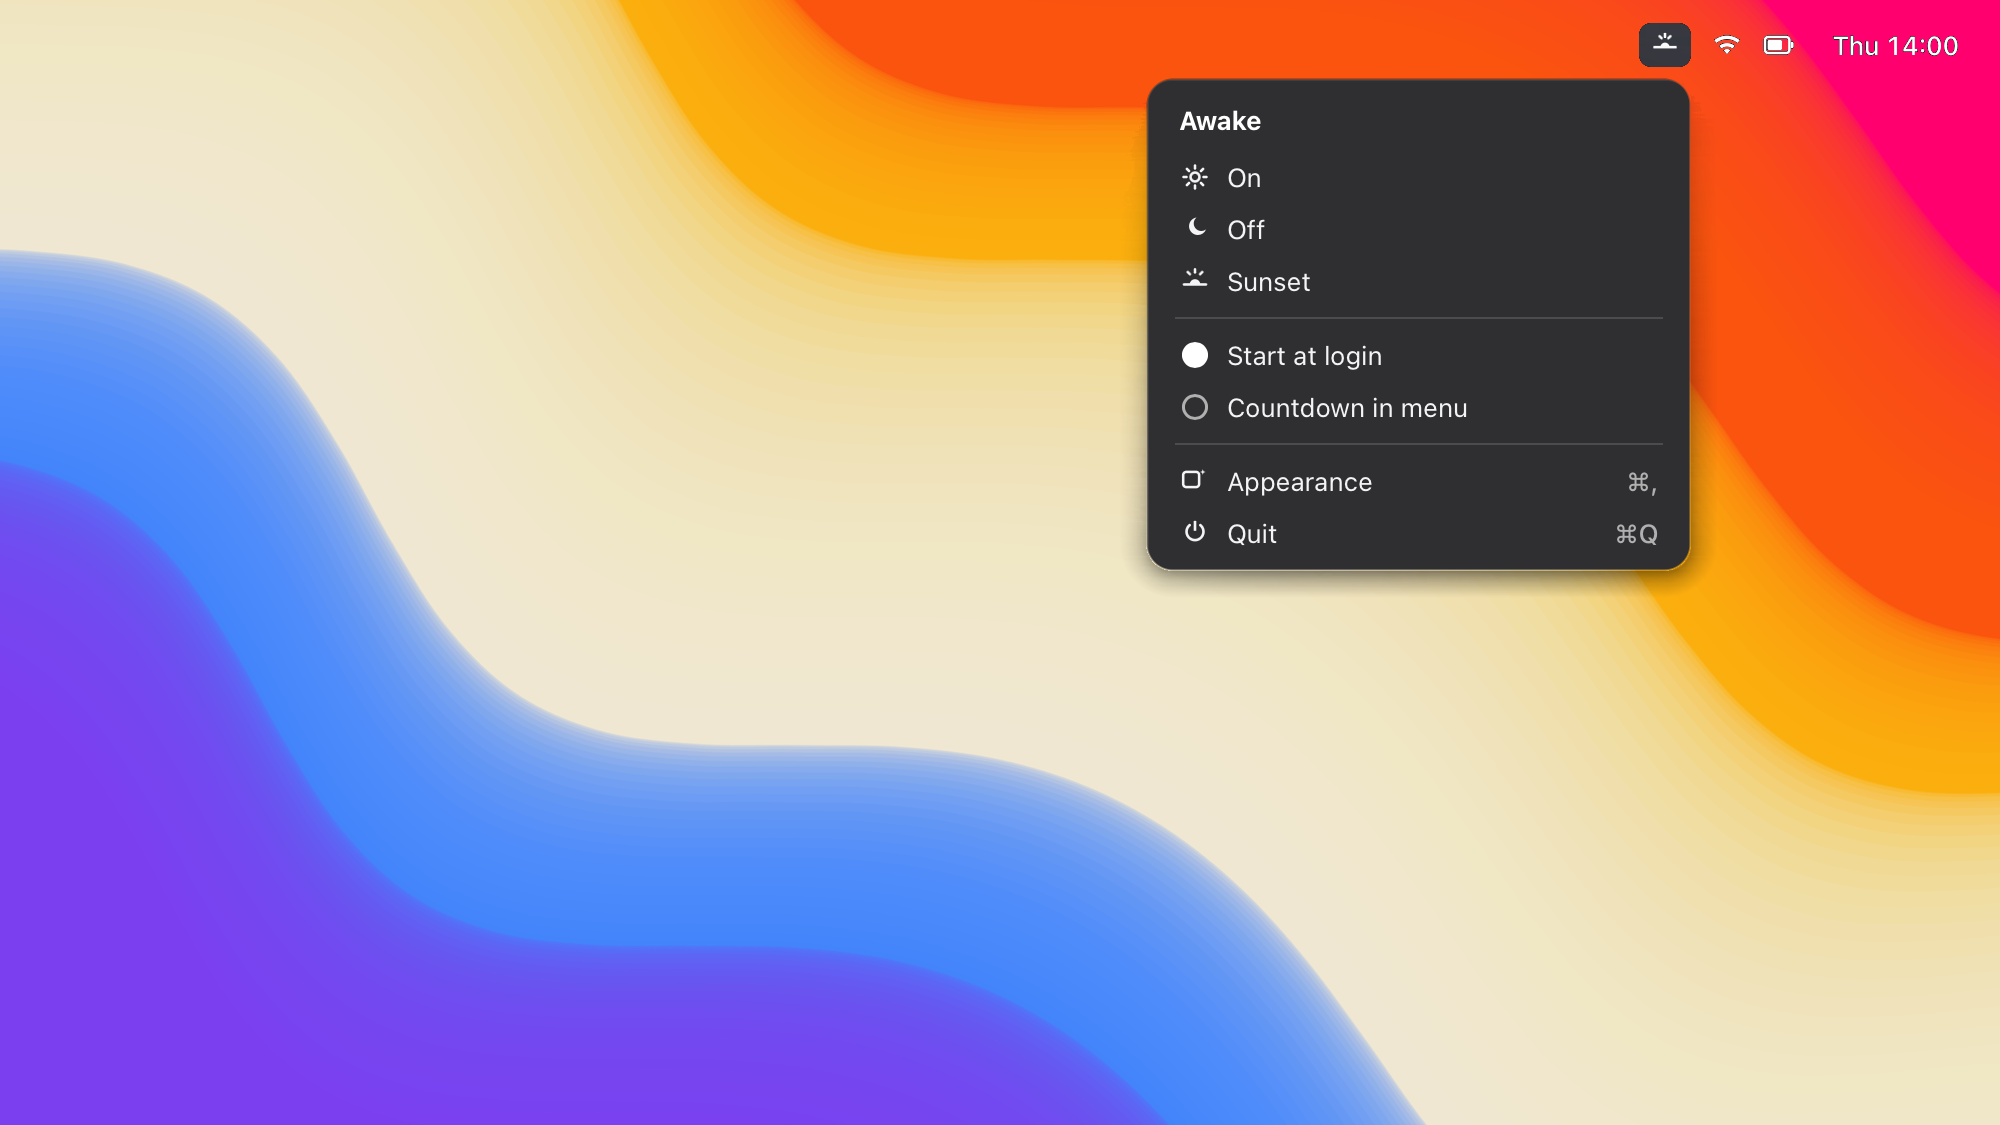
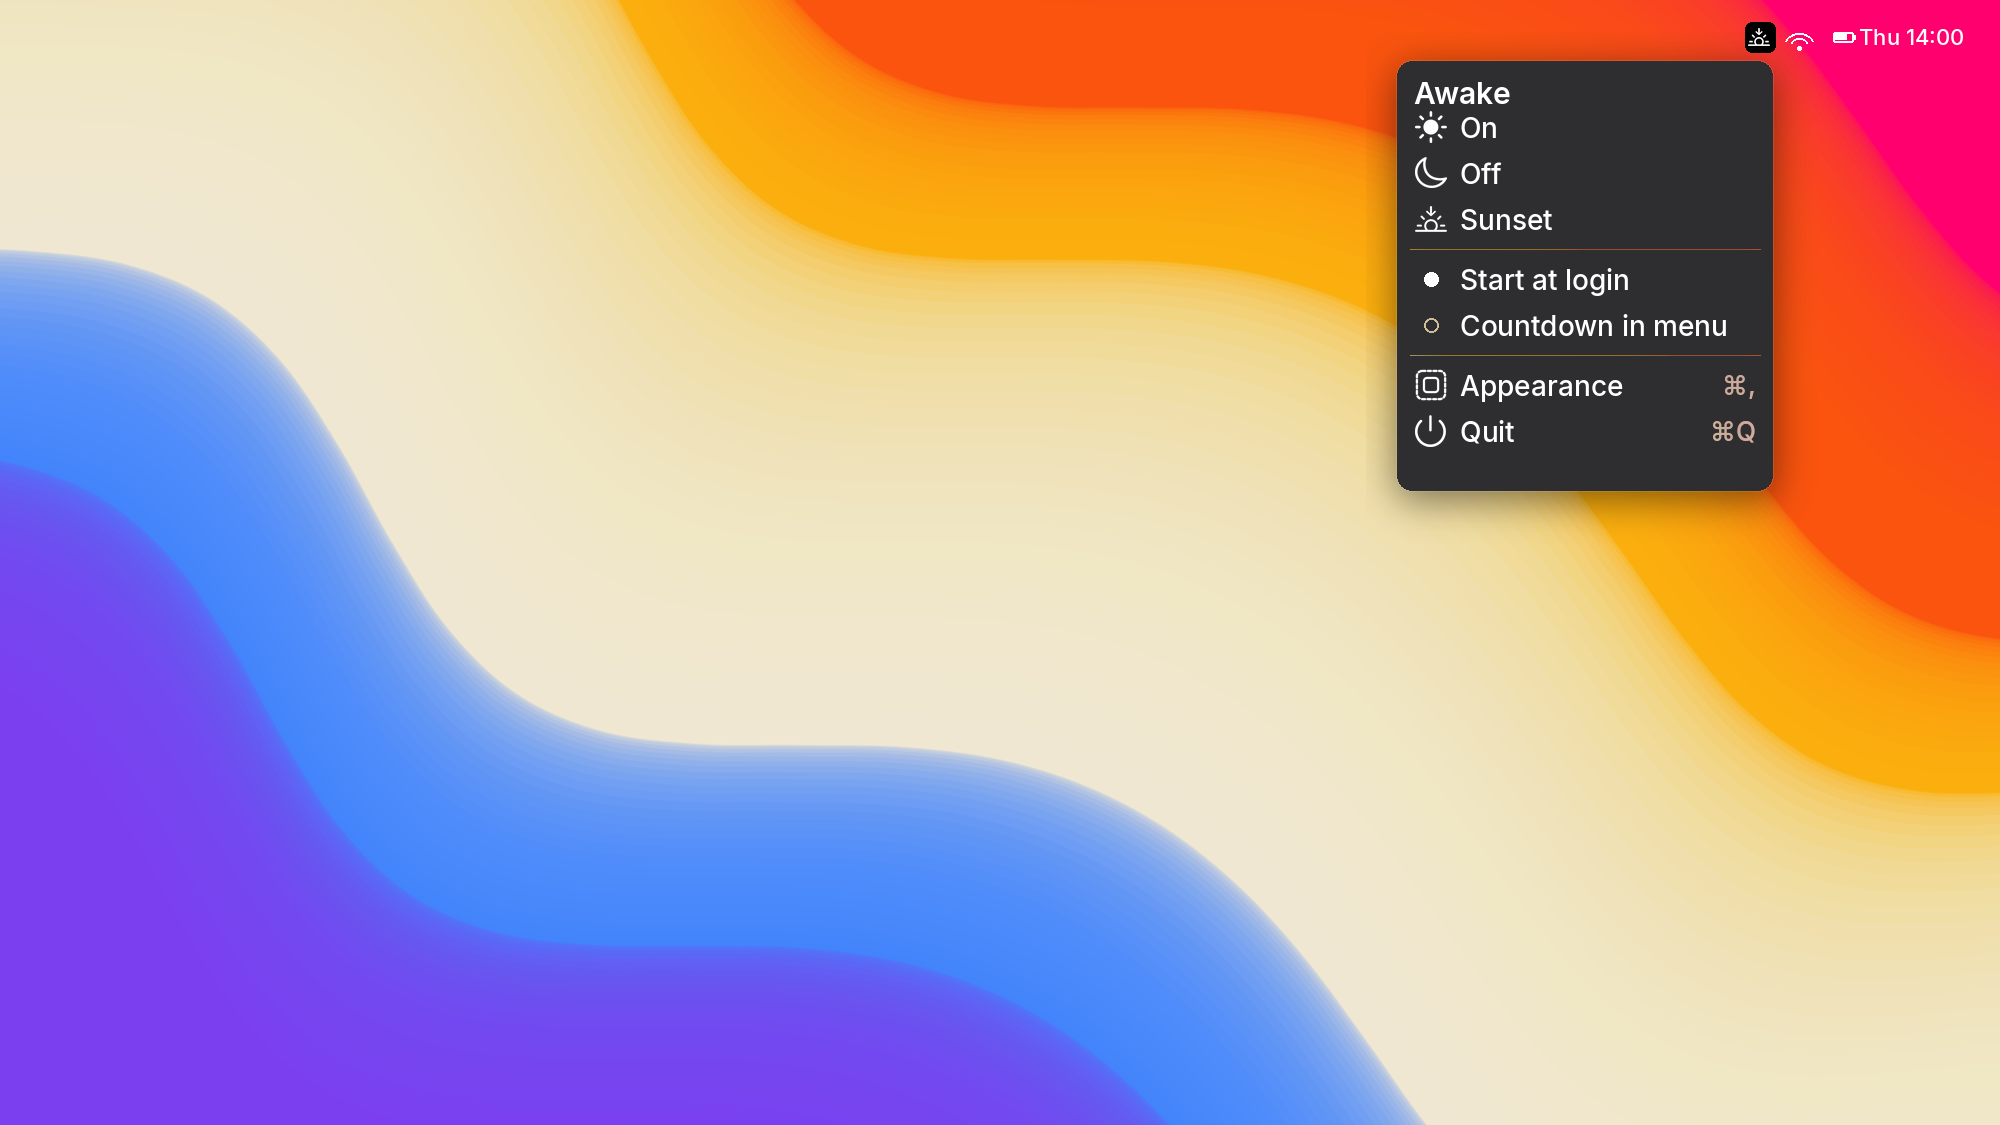
Podmień glify menu na SF Symbols z apki.

Changed region(s): [[0.558, 0.0, 0.992, 0.5289]]

diff --git a/index.html b/index.html
@@ -130,39 +130,39 @@
     </header>
 
     <figure class="demo">
-      <img class="shot" src="assets/menu-hero.png" alt="The Awake menu open on a Mac desktop: On, Off, Sunset, Start at login, Countdown in menu, Appearance, and Quit." width="2000" height="1125">
+      <img class="shot" src="assets/menu-hero.png?v=4" alt="The Awake menu open on a Mac desktop: On, Off, Sunset, Start at login, Countdown in menu, Appearance, and Quit." width="2000" height="1125">
       <figcaption>Open from the menu bar.</figcaption>
       <p class="credit">Wallpaper from <a href="https://studyofspace.gallery" target="_blank" rel="noopener">Study of Space</a> app.</p>
     </figure>
 
     <section class="features" aria-label="Features">
       <article class="f">
-        <div class="ic" aria-hidden="true"><img src="assets/icons/on.png" alt="" width="32" height="32"></div>
+        <div class="ic" aria-hidden="true"><img src="assets/sf/sun.max.png" alt="" width="32" height="32"></div>
         <h3>On</h3>
         <p>Leave it on. The Mac stays awake until you turn Awake off.</p>
       </article>
       <article class="f">
-        <div class="ic" aria-hidden="true"><img src="assets/icons/off.png" alt="" width="32" height="32"></div>
+        <div class="ic" aria-hidden="true"><img src="assets/sf/moon.png" alt="" width="32" height="32"></div>
         <h3>Off</h3>
         <p>Turn it off and the Mac can sleep again, the way it did before.</p>
       </article>
       <article class="f">
-        <div class="ic" aria-hidden="true"><img src="assets/icons/sunset.png" alt="" width="32" height="32"></div>
+        <div class="ic" aria-hidden="true"><img src="assets/sf/sunset.png" alt="" width="32" height="32"></div>
         <h3>Sunset</h3>
         <p>A timer, instead of forever. When it ends, Awake lets the Mac sleep.</p>
       </article>
       <article class="f">
-        <div class="ic" aria-hidden="true"><img src="assets/icons/login.png" alt="" width="32" height="32"></div>
+        <div class="ic" aria-hidden="true"><img src="assets/sf/radio-on.png" alt="" width="32" height="32"></div>
         <h3>Start at login</h3>
         <p>Awake is already in the menu bar when you sign in.</p>
       </article>
       <article class="f">
-        <div class="ic" aria-hidden="true"><img src="assets/icons/countdown.png" alt="" width="32" height="32"></div>
+        <div class="ic" aria-hidden="true"><img src="assets/sf/radio-off.png" alt="" width="32" height="32"></div>
         <h3>Countdown in the menu bar</h3>
         <p>Show the time left beside the icon. Hide it when you want the bar quiet.</p>
       </article>
       <article class="f">
-        <div class="ic" aria-hidden="true"><img src="assets/icons/appearance.png" alt="" width="32" height="32"></div>
+        <div class="ic" aria-hidden="true"><img src="assets/sf/appearance.png" alt="" width="32" height="32"></div>
         <h3>Appearance</h3>
         <p>Themes and accent colors for the menu. The one above uses a white accent.</p>
       </article>
